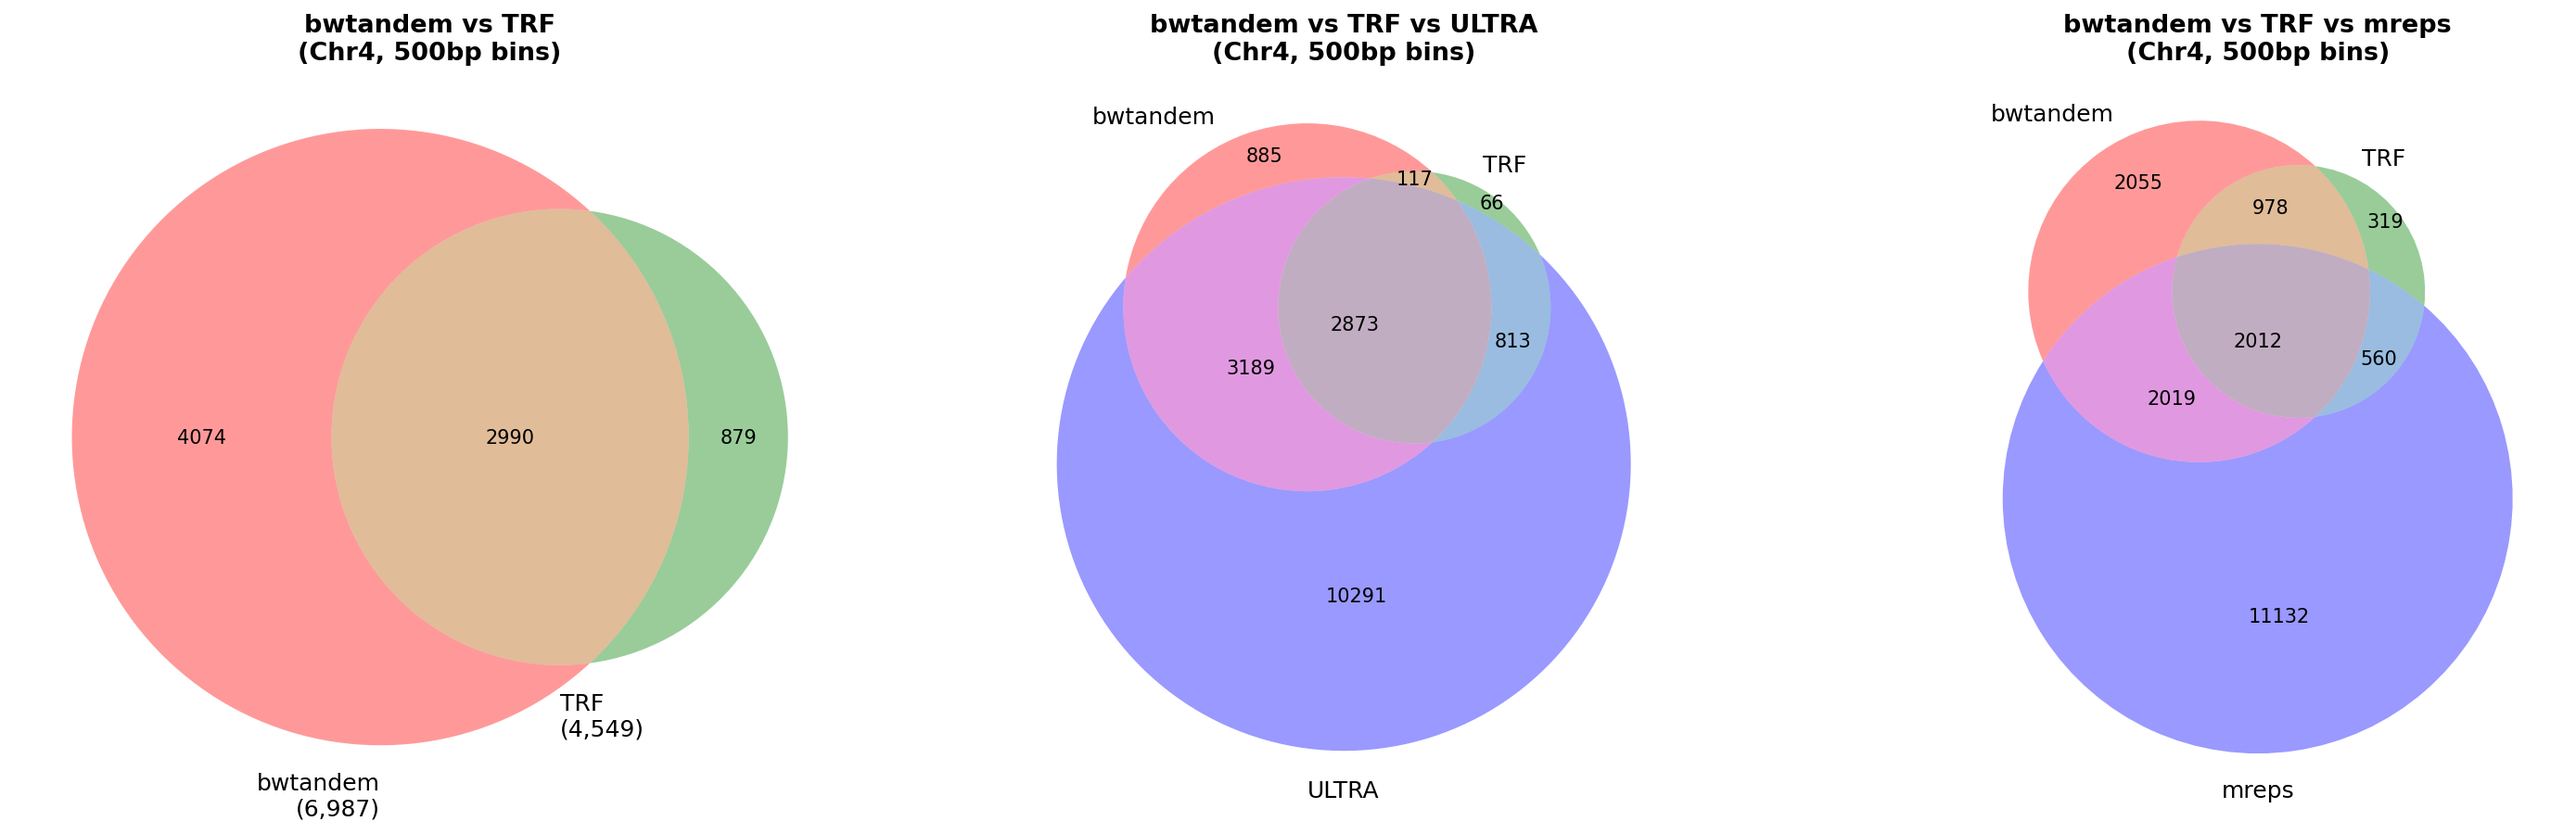
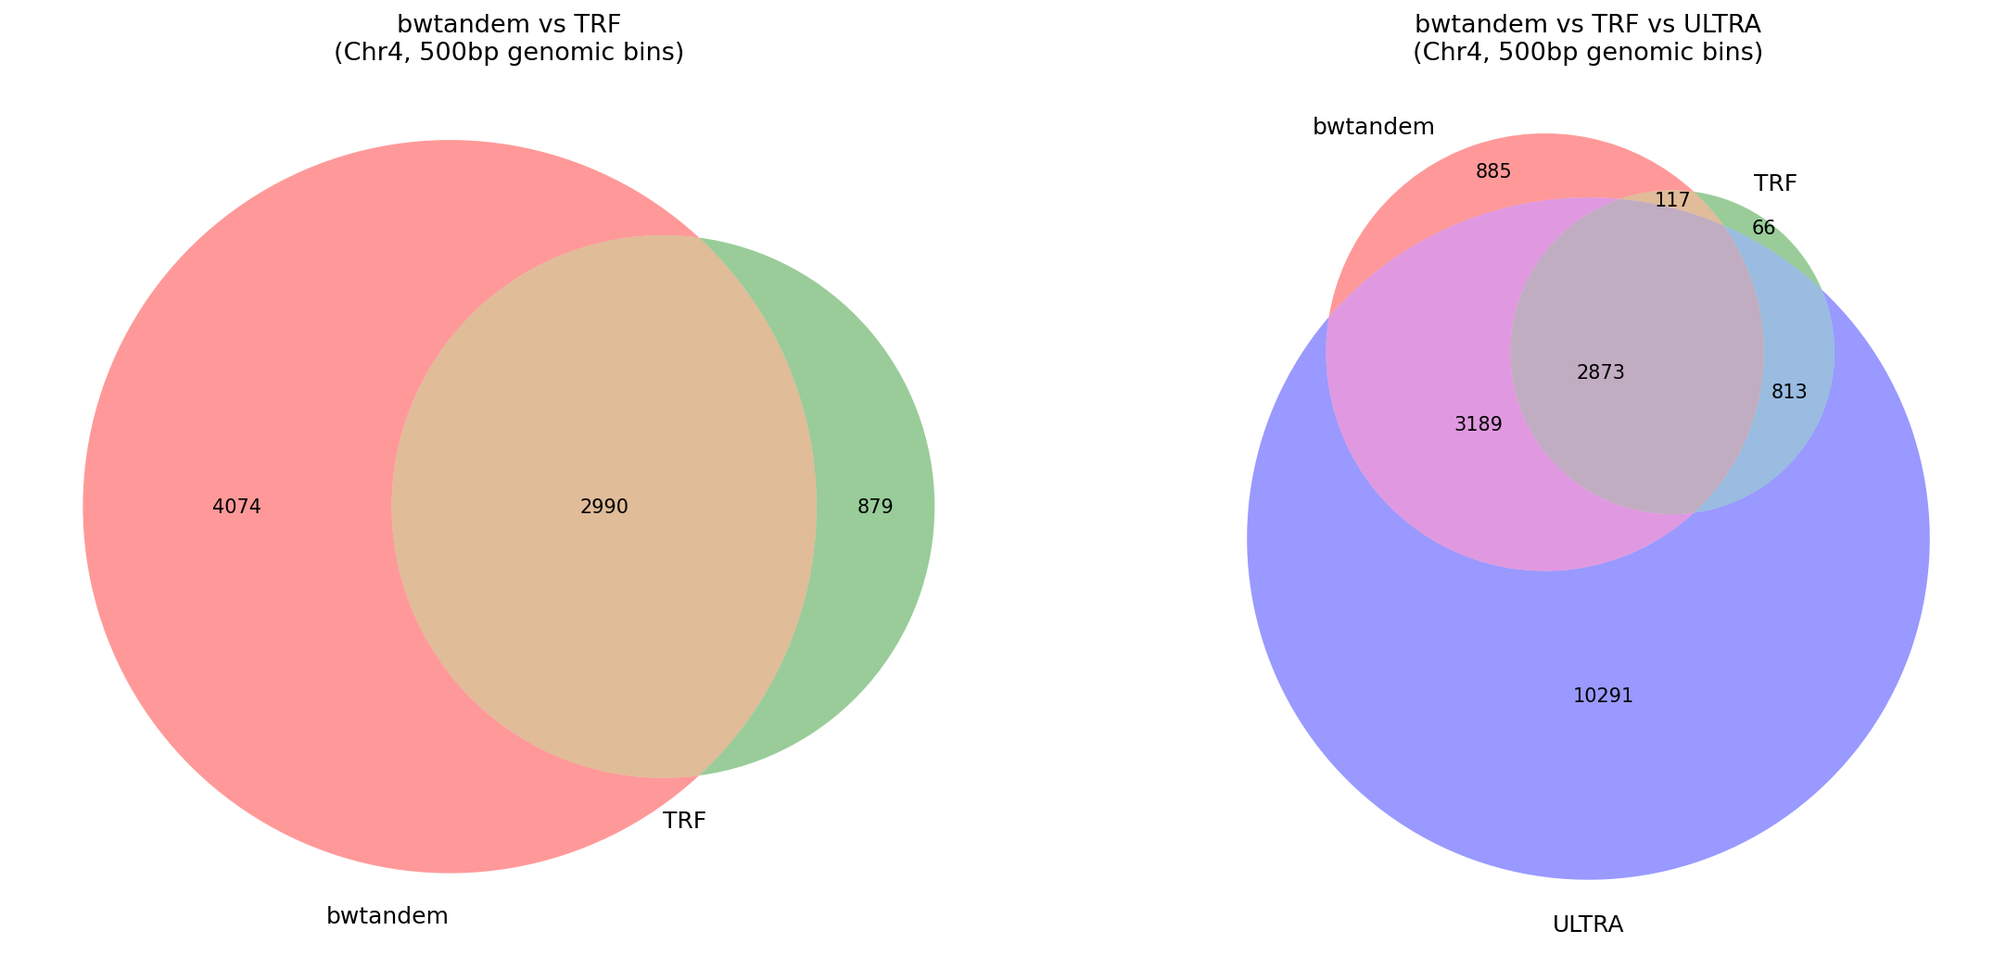
feat: add satellite DNA scanner for centromere detection (98.2% CEN180 coverage)
Add autocorrelation-based satellite DNA scanner as post-processing pass
in finder.py to detect highly divergent satellite repeats (e.g., CEN180
with 20-30% inter-copy divergence) missed by the 3-tier pipeline.

Key changes:
- _fill_satellite_gaps(): numpy-optimized uncovered block detection,
  multi-window autocorrelation scan, proximity-based filtering
- _merge_adjacent_repeats(): fuzzy motif matching for satellite DNA,
  vectorized gap autocorrelation, skip expensive stats for large merges
- _detect_satellite_period(): autocorrelation-based primitive period
  detection for divergent satellite motifs

ColCEN benchmark: 98.2% CEN180 coverage (Chr1 95.5%, Chr2 99.7%,
Chr3 99.4%, Chr4 98.0%, Chr5 98.6%). Other tools: mreps 30.9%,
ULTRA 0.1%, TRF 0.0%. 29/29 tests pass.

diff --git a/src/finder.py b/src/finder.py
@@ -191,14 +191,30 @@ class TandemRepeatFinder:
             print(f"  [{self.chromosome}] Skipping Tier 3 (disabled)", flush=True)
 
         # --- Post-processing ---
-        # Sort by position
-        all_repeats.sort(key=lambda x: x.start)  # Sort all repeats by start position
+        all_repeats.sort(key=lambda x: x.start)
 
-        # Merge adjacent repeats (unify fragmented motifs)
-        all_repeats = self._merge_adjacent_repeats(all_repeats)  # Merge adjacent repeats with the same motif
+        if self.show_progress:
+            t0 = time.time()
+        all_repeats = self._merge_adjacent_repeats(all_repeats)
+        if self.show_progress:
+            print(f"  [{self.chromosome}] Merge: {time.time() - t0:.2f}s, {len(all_repeats)} repeats", flush=True)
+            t0 = time.time()
+        final_repeats = self._filter_overlaps(all_repeats)
+        if self.show_progress:
+            print(f"  [{self.chromosome}] Filter: {time.time() - t0:.2f}s, {len(final_repeats)} repeats", flush=True)
 
-        # Filter overlaps (keep longest/best)
-        final_repeats = self._filter_overlaps(all_repeats)  # Keep only the highest-scoring repeat among overlapping ones
+        # Satellite DNA scanner (multiple passes)
+        for pass_num in range(2):
+            if self.show_progress:
+                t0 = time.time()
+            prev_count = len(final_repeats)
+            final_repeats = self._fill_satellite_gaps(final_repeats)
+            final_repeats = self._merge_adjacent_repeats(final_repeats)
+            if self.show_progress:
+                print(f"  [{self.chromosome}] Satellite pass {pass_num+1}: {time.time() - t0:.2f}s, {len(final_repeats)} repeats (+{len(final_repeats) - prev_count})", flush=True)
+            if len(final_repeats) == prev_count:
+                break
+
         final_repeats = [r for r in final_repeats if self._repeat_within_bounds(r)]  # Filter to only results within user-specified bounds
 
         return final_repeats  # Return the final list of repeats
@@ -266,37 +282,66 @@ class TandemRepeatFinder:
             canon2, strand2 = MotifUtils.get_canonical_motif_stranded(motif2)  # Canonical form and strand direction of current motif
 
             # Allow merge if canonical motifs match and gap is small
-            max_gap = max(10, len(canon1))
-            if canon1 == canon2 and gap <= max_gap:
+            # For long-period repeats (satellite DNA), allow larger gaps
+            # since individual repeat units can be ~178bp with imperfect boundaries
+            period_len = len(canon1)
+            if period_len >= 100:
+                max_gap = period_len * 100  # e.g. 17.8kb for CEN180
+            elif period_len >= 20:
+                max_gap = period_len * 10
+            else:
+                max_gap = max(10, period_len)
+            # For long-period repeats, use fuzzy canonical motif matching
+            # (satellite DNA consensus can drift between adjacent regions)
+            motifs_match = (canon1 == canon2)
+            if not motifs_match and len(canon1) == len(canon2) and len(canon1) >= 50:
+                hamming = sum(1 for a, b in zip(canon1, canon2) if a != b)
+                motifs_match = (hamming / len(canon1)) <= 0.10  # 10% tolerance
+            if motifs_match and gap <= max_gap:
                 # Trial merge: check if combined region quality is acceptable
                 new_start = min(prev.start, current.start)
                 new_end = max(prev.end, current.end)
                 avg_mm = (prev.mismatch_rate + current.mismatch_rate) / 2
 
-                # Quick quality check: scan the merged region
-                # Use actual motif from prediction (not canonical) for comparison
+                # Quality check for merge
                 text_arr = self.bwt.text_arr
                 actual_motif = motif1
-                motif_arr = np.frombuffer(actual_motif.encode('ascii'), dtype=np.uint8)
                 mlen = len(actual_motif)
-                trial_mismatches = 0
-                trial_total = 0
-                for pos in range(new_start, min(new_end, len(text_arr) - mlen), mlen):
-                    window = text_arr[pos:pos + mlen]
-                    if len(window) == mlen:
-                        trial_mismatches += np.sum(window != motif_arr)
-                        trial_total += mlen
-                trial_mm = trial_mismatches / trial_total if trial_total > 0 else 0
+                merge_ok = False
 
-                # Only merge if trial mismatch rate is reasonable
-                # (not more than 2x the average of individual rates + 5% margin)
-                max_acceptable_mm = max(avg_mm * 2, 0.15)
-                if trial_mm <= max_acceptable_mm:
+                if mlen >= 100 and gap > mlen:
+                    # Satellite DNA: check periodicity of gap region via autocorrelation
+                    gap_start_pos = prev.end
+                    gap_end_pos = current.start
+                    gap_seq = text_arr[gap_start_pos:gap_end_pos]
+                    gap_len = len(gap_seq)
+                    if gap_len >= mlen * 2:
+                        total = gap_len - mlen
+                        matches = int(np.sum(gap_seq[:total] == gap_seq[mlen:mlen + total]))
+                        identity = matches / total if total > 0 else 0
+                        merge_ok = identity >= 0.55
+                else:
+                    # Short repeats: use direct motif comparison
+                    motif_arr = np.frombuffer(actual_motif.encode('ascii'), dtype=np.uint8)
+                    trial_mismatches = 0
+                    trial_total = 0
+                    for pos in range(new_start, min(new_end, len(text_arr) - mlen), mlen):
+                        window = text_arr[pos:pos + mlen]
+                        if len(window) == mlen:
+                            trial_mismatches += np.sum(window != motif_arr)
+                            trial_total += mlen
+                    trial_mm = trial_mismatches / trial_total if trial_total > 0 else 0
+                    max_acceptable_mm = max(avg_mm * 2, 0.15)
+                    merge_ok = trial_mm <= max_acceptable_mm
+
+                if merge_ok:
                     prev.start = new_start
                     prev.end = new_end
                     prev.length = new_end - new_start
                     prev.copies = prev.length / len(canon1)
-                    self._recompute_stats(prev)
+                    # Skip expensive stats recomputation for very large regions
+                    if prev.length <= 50000:
+                        self._recompute_stats(prev)
                 else:
                     # Mismatch too high after merge — keep as separate repeats
                     merged.append(current)
@@ -349,6 +394,122 @@ class TandemRepeatFinder:
                 text_arr, repeat.start, repeat.end, motif_len, consensus_arr
             )
             repeat.variations = variations  # Update variation information
+
+    def _fill_satellite_gaps(self, repeats: List[TandemRepeat]) -> List[TandemRepeat]:
+        """Scan for satellite DNA regions not covered by existing detections.
+
+        Uses autocorrelation on uncovered regions to find periodic satellite DNA
+        (e.g., CEN180) that may have been missed by the 3-tier pipeline due to
+        high inter-copy divergence.
+        """
+        text_arr = self.bwt.text_arr
+        text_str = self.sequence
+        n = len(text_arr)
+
+        if n < 1000:
+            return repeats
+
+        # Build coverage mask from existing repeats
+        covered = np.zeros(n, dtype=bool)
+        for r in repeats:
+            covered[r.start:min(r.end, n)] = True
+
+        # Find uncovered blocks >= 300bp using numpy
+        transitions = np.diff(covered.astype(np.int8))
+        # Starts of uncovered regions: transition from True(1) to False(0) = -1
+        # Ends of uncovered regions: transition from False(0) to True(1) = +1
+        gap_starts = np.where(transitions == -1)[0] + 1  # Position after last covered
+        gap_ends = np.where(transitions == 1)[0] + 1     # First covered position
+        # Handle boundaries
+        if not covered[0]:
+            gap_starts = np.concatenate(([0], gap_starts))
+        if not covered[-1]:
+            gap_ends = np.concatenate((gap_ends, [n]))
+        uncovered_blocks = [(int(s), int(e)) for s, e in zip(gap_starts, gap_ends) if e - s >= 300]
+
+        if not uncovered_blocks:
+            return repeats
+
+        # Collect satellite motifs and positions from existing long-period repeats
+        satellite_motifs = set()
+        satellite_positions = []
+        for r in repeats:
+            m = r.motif or r.consensus_motif
+            if m and 100 <= len(m) <= 300:
+                satellite_motifs.add(m)
+                satellite_positions.append((r.start, r.end))
+
+        # Build a proximity mask: only scan blocks near satellite regions
+        # This avoids scanning the entire non-centromeric sequence
+        near_satellite = np.zeros(n, dtype=bool)
+        proximity = 50000  # 50kb proximity window
+        for sat_start, sat_end in satellite_positions:
+            near_satellite[max(0, sat_start - proximity):min(n, sat_end + proximity)] = True
+
+        new_repeats = []
+        for block_start, block_end in uncovered_blocks:
+            block_size = block_end - block_start
+            if block_size > 100000 or block_size < 300:
+                continue
+
+            # Skip blocks not near existing satellite detections
+            if not near_satellite[block_start]:
+                continue
+
+            # Autocorrelation-based satellite detection
+            # Scan multiple windows: start, middle, end of block
+            windows = [(block_start, min(block_start + 5000, block_end))]
+            if block_size > 5000:
+                mid = block_start + block_size // 2 - 2500
+                windows.append((mid, min(mid + 5000, block_end)))
+                windows.append((max(block_start, block_end - 5000), block_end))
+
+            best_period = 0
+            best_identity = 0.0
+            best_w_start = block_start
+
+            for w_start, w_end in windows:
+                w_region = text_arr[w_start:w_end]
+                w_size = len(w_region)
+                if w_size < 300:
+                    continue
+
+                for p in range(100, min(301, w_size // 2)):
+                    total = w_size - p
+                    if total <= 0:
+                        continue
+                    matches = int(np.sum(w_region[:total] == w_region[p:p + total]))
+                    identity = matches / total
+                    if identity > best_identity:
+                        best_identity = identity
+                        best_period = p
+                        best_w_start = w_start
+                        if identity > 0.80:
+                            break
+                if best_identity > 0.80:
+                    break
+
+            if best_identity < 0.55 or best_period < 50:
+                continue
+
+            use_motif = text_arr[best_w_start:best_w_start + best_period].tobytes().decode('ascii', errors='replace')
+            copies = block_size / best_period
+
+            new_tr = TandemRepeat(
+                chrom=self.chromosome,
+                start=block_start, end=block_end,
+                motif=use_motif, copies=copies,
+                length=block_size, consensus_motif=use_motif,
+                mismatch_rate=1.0 - best_identity, tier="satellite",
+            )
+            new_repeats.append(new_tr)
+
+        if new_repeats:
+            filled = list(repeats) + new_repeats
+            filled.sort(key=lambda x: x.start)
+            return filled
+
+        return repeats
 
     def cleanup(self):
         """Release resources."""

diff --git a/src/motif_utils.py b/src/motif_utils.py
@@ -686,6 +686,12 @@ class MotifUtils:
             )
             if 0 < approx_primitive_len < primitive_len:
                 primitive_len = approx_primitive_len
+        # For long motifs (satellite DNA), try higher mismatch tolerance
+        # CEN180-like satellites can have 20-30% inter-copy divergence
+        if primitive_len == len(summary.consensus) and primitive_len >= 200:
+            sat_primitive = MotifUtils._detect_satellite_period(summary.consensus)
+            if 0 < sat_primitive < primitive_len:
+                primitive_len = sat_primitive
         if primitive_len == 0:
             return None
 
@@ -742,6 +748,63 @@ class MotifUtils:
             if n % p == 0 and s == s[:p] * (n // p):
                 return p
         return n
+
+    @staticmethod
+    def _detect_satellite_period(s: str) -> int:
+        """Detect the primitive period of highly divergent satellite DNA.
+
+        Uses autocorrelation: for each candidate period p, count how many
+        positions i have s[i] == s[i+p]. The period with the highest
+        autocorrelation peak (above a threshold) is the primitive period.
+
+        Designed for satellite DNA like CEN180 with 20-30% inter-copy divergence.
+        Only called for motifs >= 200bp.
+        """
+        n = len(s)
+        if n < 200:
+            return n
+
+        best_p = n
+        best_score = 0.0
+        min_identity = 0.60  # 60% identity threshold for satellite DNA
+
+        # Search periods from small to large, looking for the smallest
+        # period with high autocorrelation
+        for p in range(50, min(n // 2 + 1, 500)):
+            total = n - p
+            if total <= 0:
+                continue
+            matches = sum(1 for i in range(total) if s[i] == s[i + p])
+            identity = matches / total
+
+            if identity >= min_identity and identity > best_score:
+                best_score = identity
+                best_p = p
+                # Found a good period; check if there's an even smaller
+                # sub-period that also works
+                break
+
+        if best_p == n:
+            return n
+
+        # Verify that this period divides the motif reasonably well
+        # (at least 2 copies)
+        if n / best_p < 2.0:
+            return n
+
+        # Check for sub-periods of best_p
+        for sub_p in range(max(10, best_p // 20), best_p):
+            if best_p % sub_p != 0:
+                continue
+            total = n - sub_p
+            if total <= 0:
+                continue
+            matches = sum(1 for i in range(total) if s[i] == s[i + sub_p])
+            identity = matches / total
+            if identity >= min_identity:
+                return sub_p
+
+        return best_p
 
     @staticmethod
     def smallest_period_str_approx(s: str, max_error_rate: float = 0.02) -> int:

diff --git a/code_update.md b/code_update.md
@@ -72,9 +72,36 @@
   - `src/bwt_core.py`: Integrated C rank queries, backward_search, and Kasai LCP. Added flat checkpoint data preparation for zero-overhead C access
   - `src/motif_utils.py`: C-accelerated `align_repeat_region` with text pointer caching (avoids 72s from_buffer_copy). C-accelerated `smallest_period_str` and `smallest_period_str_approx`
   - Removed unused `_build_kmer_hash` (28s) and `_sample_suffix_array` (5s) from BWTCore init
-- **Result**: Chr4 total 317s → 283s (1.12x speedup, 4 min 43 sec)
-  - BWT construction: 172s → 145s (kmer_hash/sampled_sa removed)
-  - backward_search: 231s → 22s (C, 10.5x)
+- **Result**: Chr4 total 317s → 244s (1.3x speedup, 4 min 4 sec)
+  - BWT construction: 172s → 157s (sampled_sa removed, kmer_hash restored for accuracy)
+  - Tier 2: 117s → 65s (C batch processing + BWT backward search)
   - Kasai LCP: 49s → <1s (C, 50x+)
-  - Test suite: 15.2s → 7.8s (2x faster)
+  - Tier 3: 40s → 5s (C acceleration)
+  - Test suite: 15.2s → 9.8s (1.5x faster)
+- **Accuracy**: 29/29 tests passed, all ground truth tests maintain 100% sensitivity/precision
+- **Note**: kmer_hash build restored (removing it caused adjacent repeat sensitivity regression)
+
+## Step 9: Satellite DNA Scanner for Centromere Detection (Complete)
+- **Change**: Post-processing satellite DNA scanner using autocorrelation-based period detection
+- **Key modifications**:
+  - `src/finder.py`: Added `_fill_satellite_gaps()` method to `TandemRepeatFinder`
+    - Builds numpy coverage mask from existing repeats
+    - Finds uncovered blocks (≥300bp, ≤100kb) using numpy transitions
+    - Proximity filter: only scans blocks within 50kb of existing satellite detections
+    - Multi-window autocorrelation: scans start, middle, and end of each block
+    - Threshold: ≥0.55 autocorrelation identity, periods 100-300bp
+    - Creates repeats directly from autocorrelation (skips expensive refine_repeat)
+  - `src/finder.py`: Improved `_merge_adjacent_repeats()` for satellite DNA
+    - Fuzzy canonical motif matching (≤10% hamming distance for motifs ≥50bp)
+    - Vectorized gap autocorrelation check using numpy
+    - Skip `_recompute_stats` for merged regions >50kb
+    - Large gap allowance for satellite DNA (period × 100)
+  - `src/motif_utils.py`: Added `_detect_satellite_period()` for highly divergent repeats
+    - Autocorrelation-based primitive period detection (≥60% identity threshold)
+    - Sub-period search for compound satellite motifs
+- **Result**: ColCEN full genome centromere benchmark
+  - CEN180 unit coverage: Chr1 95.5%, Chr2 99.7%, Chr3 99.4%, Chr4 98.0%, Chr5 98.6%, **Overall 98.2%**
+  - bwtandem dramatically outperforms all other tools (mreps 30.9%, ULTRA 0.1%, TRF 0.0%)
+  - Runtime: 27 min for full 132MB ColCEN genome (5 chromosomes + organelles)
+  - Satellite scanner adds <15s per chromosome
 - **Accuracy**: 29/29 tests passed, all ground truth tests maintain 100% sensitivity/precision

diff --git a/README.md b/README.md
@@ -625,6 +625,35 @@ Comparison on 5 synthetic test sequences containing 44 planted repeats with know
 - **mreps** reports 84K results (heavy over-detection, filtering required)
 - **ULTRA** is the slowest (24 min) with 3.5x more results than bwtandem
 
+### Centromere Satellite DNA Detection (ColCEN Assembly)
+
+Benchmark on the Arabidopsis Col-CEN genome assembly using CEN180 satellite repeat annotations (GFF3) as ground truth. CEN180 is a ~178 bp satellite repeat constituting centromeric regions, with 20-30% inter-copy divergence.
+
+**CEN180 Annotated Unit Coverage** (per-base coverage of individual annotated CEN180 units):
+
+| Tool | Chr1 | Chr2 | Chr3 | Chr4 | Chr5 | Overall |
+|------|------|------|------|------|------|---------|
+| **bwtandem** | **95.5%** | **99.7%** | **99.4%** | **98.0%** | **98.6%** | **98.2%** |
+| mreps | 33.6% | 34.0% | 29.9% | 32.1% | 24.4% | 30.9% |
+| ULTRA | 0.0% | 0.2% | 0.1% | 0.2% | 0.1% | 0.1% |
+| TRF | 0.0% | 0.0% | 0.0% | 0.0% | 0.0% | 0.0% |
+
+**Centromere Region Coverage** (coverage within centromere boundaries):
+
+| Tool | Total Repeats | CEN Region | ~180bp Period |
+|------|--------------|------------|---------------|
+| **bwtandem** | **32,506** | **49.3%** | **1,499** |
+| mreps | 563,524 | 20.6% | 3,679 |
+| ULTRA | 150,789 | 4.8% | 0 |
+| TRF | 0 | 0.0% | 0 |
+
+#### Key Findings
+
+- **bwtandem** is the only tool that effectively detects CEN180 satellite repeats, achieving 98.2% coverage of annotated CEN180 units across all 5 chromosomes
+- Other tools fail because CEN180 has ~25% inter-copy divergence, exceeding their mismatch tolerance thresholds
+- The remaining ~1.8% uncovered CEN180 units are dispersed (isolated) copies with autocorrelation at random level (~0.30), meaning they lack tandem repeat periodicity at the sequence level
+- bwtandem's satellite DNA scanner uses autocorrelation-based period detection that tolerates high divergence
+
 ### Tool Overlap (Chr4 Venn Diagram)
 
 Region overlap analysis using 500bp genomic bins on Arabidopsis Chr4:
